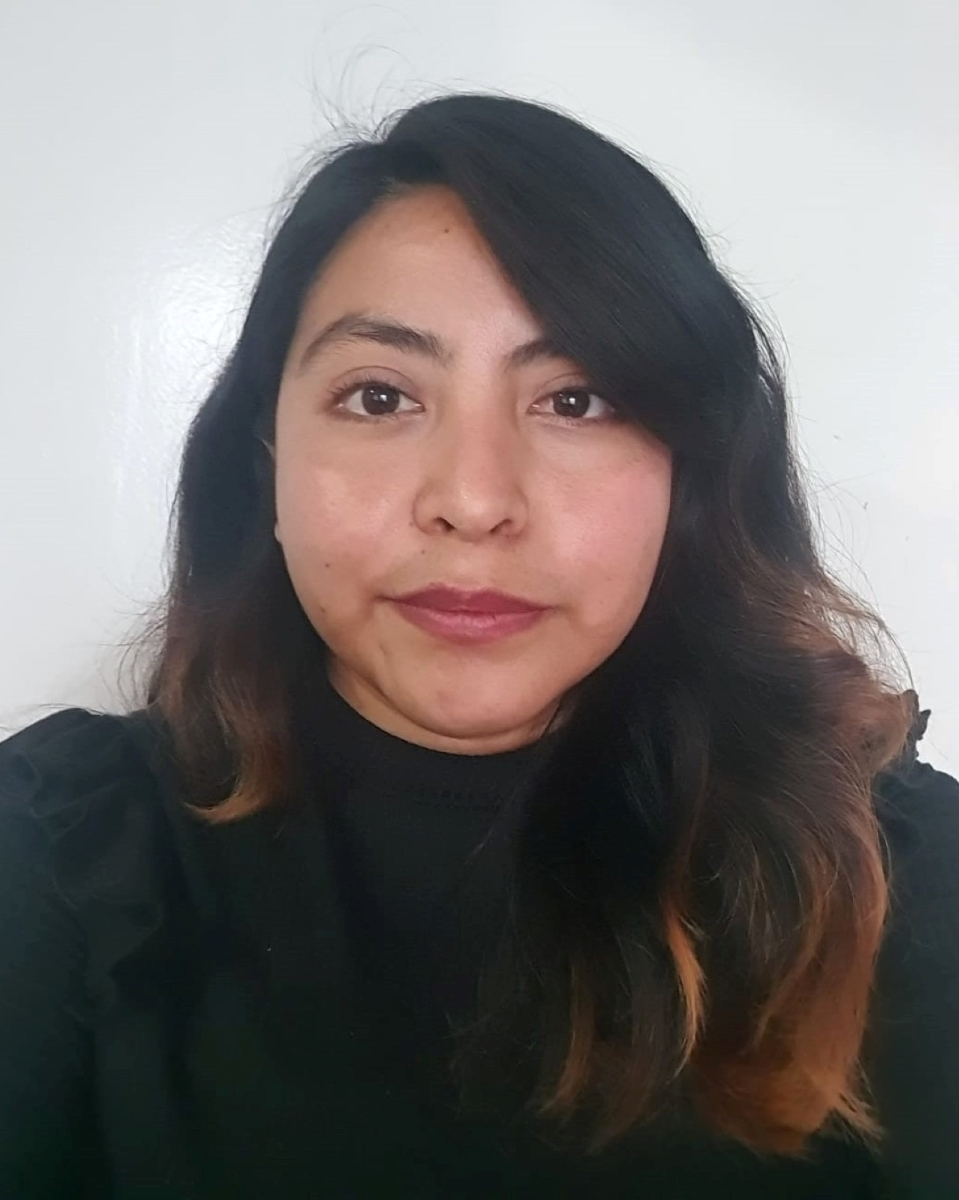
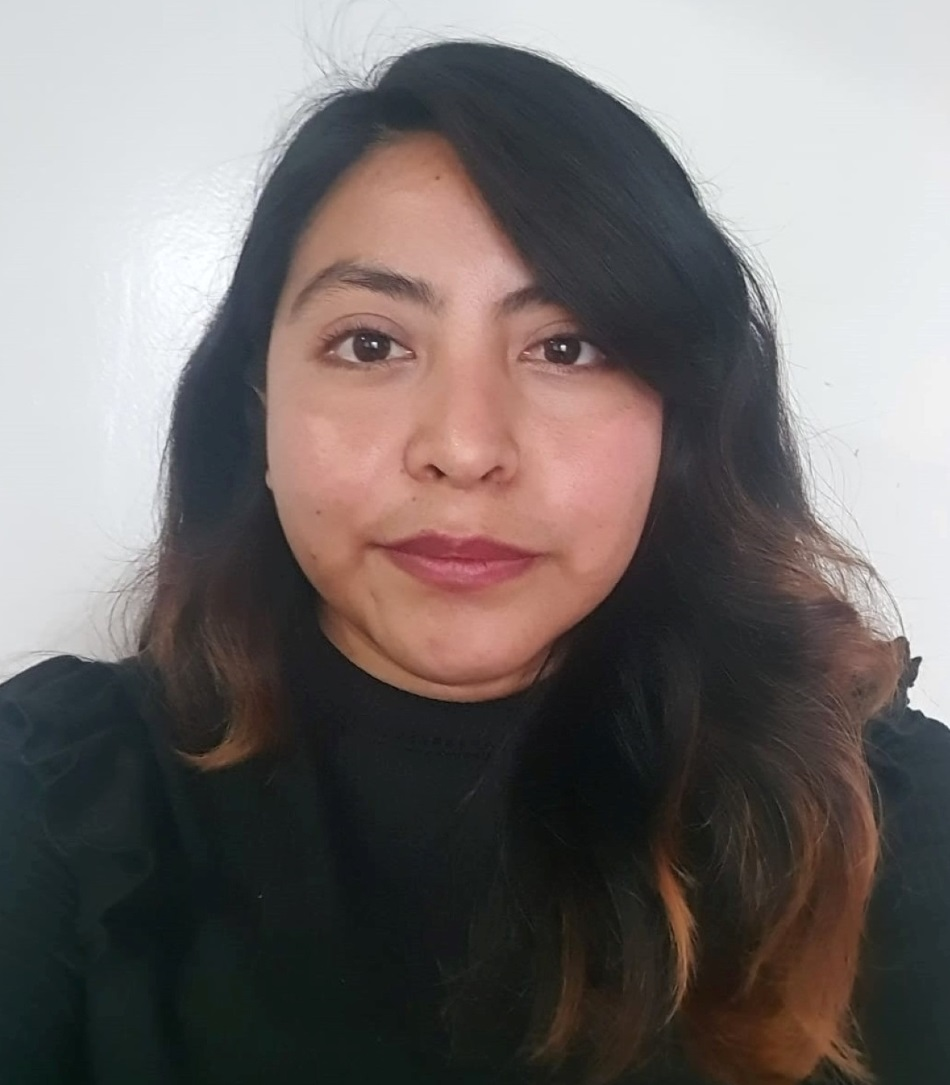
Se cambia el tamaño de fuente en acercadenosotros.html y se acomodan las imagenes del equipo de desarrollo

diff --git a/acercadenosotros.html b/acercadenosotros.html
@@ -97,8 +97,7 @@
             <i class="fa-solid fa-lightbulb card-img-top cardacerca"></i>
             <div class="card-body">
               <h5 class="card-title"><strong>Innovación</strong></h5>
-              <p class="card-text">Estamos en una constante implementación de nuevas ideas para la mejora de nuestros
-                productos y servicios.
+              <p class="card-text">Estamos en una constante implementación de nuevas ideas para la mejora de nuestros productos y servicios.
               </p>
             </div>
           </div>
@@ -147,11 +146,10 @@
           <div class="card text-center">
             <img src="./src/img/Ale.jpg" class="card-img-top" alt="..." width="" height="">
             <div class="card-body">
-              <h5 class="card-title"><strong>Alejandra Elizabeth Nuñez Navarro</strong></h5>
-              <h6>SCRUM Master y miembro del Equipo de Desarrollo. </h6>
+              <h5 class="card-title"><strong>Alejandra E. Nuñez Navarro</strong></h5>
+              <h6>SCRUM Master | Desarrolladora Java FullStack</h6>
               <p class="card-text">Tengo
-                conocimientos técnicos en HTML, CSS y Javascript. Realicé el desarrollo de una página web "La Bolsa
-                Roja".
+                conocimientos técnicos en HTML, CSS y JavaScript. Participé en el desarrollo de la página web "La Bolsa Roja".
               </p>
               </p>
               <a href="https://www.linkedin.com/in/alejandra-elizabeth-núñez-navarro-852315269/"
@@ -164,9 +162,8 @@
             <img src="./src/img/Cris.jpg" class="card-img-top" alt="..." width="" height="">
             <div class="card-body">
               <h5 class="card-title"><strong>Cristobal J. Barajas Avila</strong></h5>
-              <h6>SCRUM Master y miembro del Equipo de Desarrollo. </h6>
-              <p class="card-text">Actuario, Participante del bootcamp Generation México. Participé en el desarrollo
-                front y backend de la página actual, y en el de la base de datos.</p>
+              <h6>SCRUM Master | Desarrollador Java FullStack</h6>
+              <p class="card-text">Actuario. Integrante del Bootcamp Generation México. Participé en el desarrollo del frontend y backend de la página actual.</p>
               <a href="https://www.linkedin.com/in/cristobal-jba/" class="btn btn-danger">LinkedIn</a>
             </div>
           </div>
@@ -175,11 +172,11 @@
           <div class="card text-center">
             <img src="./src/img/Fer.jpg" class="card-img-top" alt="..." width="" height="">
             <div class="card-body">
-              <h5 class="card-title"><strong>Jorge Fernando Gomez Rios</strong></h5>
-              <h6>SCRUM Master y miembro del Equipo de Desarrollo. </h6>
+              <h5 class="card-title"><strong>Jorge F. Gomez Rios</strong></h5>
+              <h6>SCRUM Master | Desarrollador Java FullStack</h6>
               <p class="card-text">
                 Estuve involucrado en el desarrollo de la "La Bolsa roja", aplicando conocimientos en
-                HTML, CSS, Javascript y Java.
+                HTML, CSS, JavaScript y Java.
               </p>
               <a href="https://www.linkedin.com/in/jorge-gomez-rios/" class="btn btn-danger">LinkedIn</a>
             </div>
@@ -190,9 +187,8 @@
             <img src="./src/img/Gaby.jpg" class="card-img-top" alt="..." width="" height="">
             <div class="card-body">
               <h5 class="card-title"><strong>Gabriela Muñoz Clemente</strong></h5>
-              <h6>SCRUM Master y miembro del Equipo de Desarrollo. </h6>
-              <p class="card-text">Egresada de Generation México, desarrollé una página web utilizando Java, JavaScript,
-                HTML, CSS, MySQL y la Metodología de SCRUM.</p>
+              <h6>SCRUM Master | Desarrolladora Java FullStack</h6>
+              <p class="card-text">Egresada de Generation México. Desarrollé una página web utilizando Java, JavaScript, HTML, CSS, MySQL y la Metodología de SCRUM.</p>
               <a href="https://www.linkedin.com/in/gabriela-muñoz-clemente-a85899198" class="btn btn-danger">LinkedIn
               </a>
             </div>
@@ -203,9 +199,9 @@
             <img src="./src/img/Jessi.jpg" class="card-img-top" alt="..." width="" height="">
             <div class="card-body">
               <h5 class="card-title"><strong>Jessica M. Salazar Torres</strong></h5>
-              <h6>SCRUM Master y miembro del Equipo de Desarrollo. </h6>
-              <p class="card-text">Lic. en Ciencias de la informática. Formé parte
-                del proyecto La Bolsa Roja desarrollando una aplicación web con una buena experiencia de usuario.
+              <h6>SCRUM Master| Desarrolladora Java FullStack</h6>
+              <p class="card-text">Lic.Ciencias de la informática. Participé en el 
+                 proyecto La Bolsa Roja desarrollando una página web con una buena experiencia de usuario.
               </p>
               <a href="https://www.linkedin.com/in/jessica-marsato" class="btn btn-danger" target="_blank">LinkedIn</a>
             </div>
@@ -216,7 +212,7 @@
             <img src="./src/img/Hugo.jpg" class="card-img-top" alt="..." width="" height="">
             <div class="card-body">
               <h5 class="card-title"><strong>Hugo Axel Rojas Aguilar</strong></h5>
-              <h6>SCRUM Master y miembro del Equipo de Desarrollo. </h6>
+              <h6>Product Owner | Desarrollador Java FullStack</h6>
               <p class="card-text">Lic. en Economía. Participante en el Bootcamp
                 Genration Mx. Me desenvolví tanto en la parte de front end, back end y base de
                 datos.</p>
@@ -227,13 +223,11 @@
         </div>
         <div class="col">
           <div class="card text-center">
-            <img src="./src/img/Hectot.jpg" class="card-img-top" alt="..." width="" height="">
+            <img src="./src/img/Hector.jpg" class="card-img-top" alt="..." width="" height="">
             <div class="card-body">
               <h5 class="card-title"><strong>Hector H. Andrade Linares</strong></h5>
-              <h6>SCRUM Master y miembro del Equipo de Desarrollo. </h6>
-              <p class="card-text"> Autodidacta, creativo, ayer estaba dando clases y hoy le pongo clase a los sitios
-                web.
-                Soy un visitante de otro mundo en la industria tech y vine para quedarme. </p>
+              <h6>SCRUM Master | Desarrollador Java FullStack</h6>
+              <p class="card-text"> Autodidacta, ayer estaba dando clases y hoy le doy clase a los sitios web. Visitante de otro mundo en la industria Tech y vine para quedarme. </p>
               <a href="https://www.linkedin.com/in/hecandrade/" class="btn btn-danger">LinkedIn</a>
             </div>
           </div>

diff --git a/css/acercadenosotros.css b/css/acercadenosotros.css
@@ -9,6 +9,7 @@ h1{
 
 p{
   text-align: justify;
+  font-size: large;
   animation-duration: 2s;
   animation-name: slidein;
   animation-iteration-count: initial;
@@ -41,7 +42,7 @@ p{
 }
 
 .titulocon{
-  font-size: 50px;
+  font-size: 60px;
   display: flex;
   justify-content: center;
   align-items: center;
